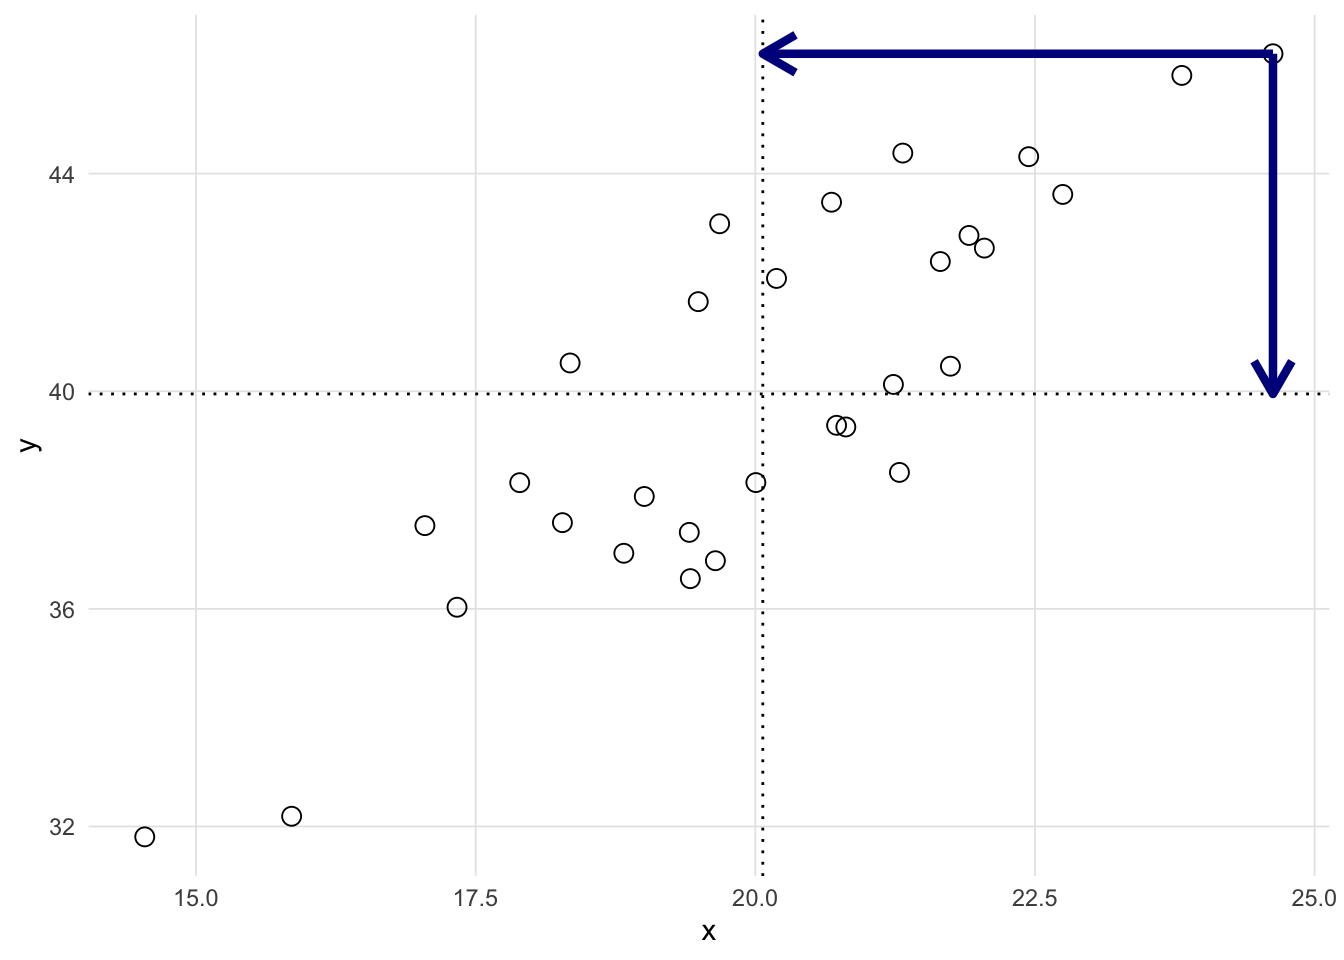
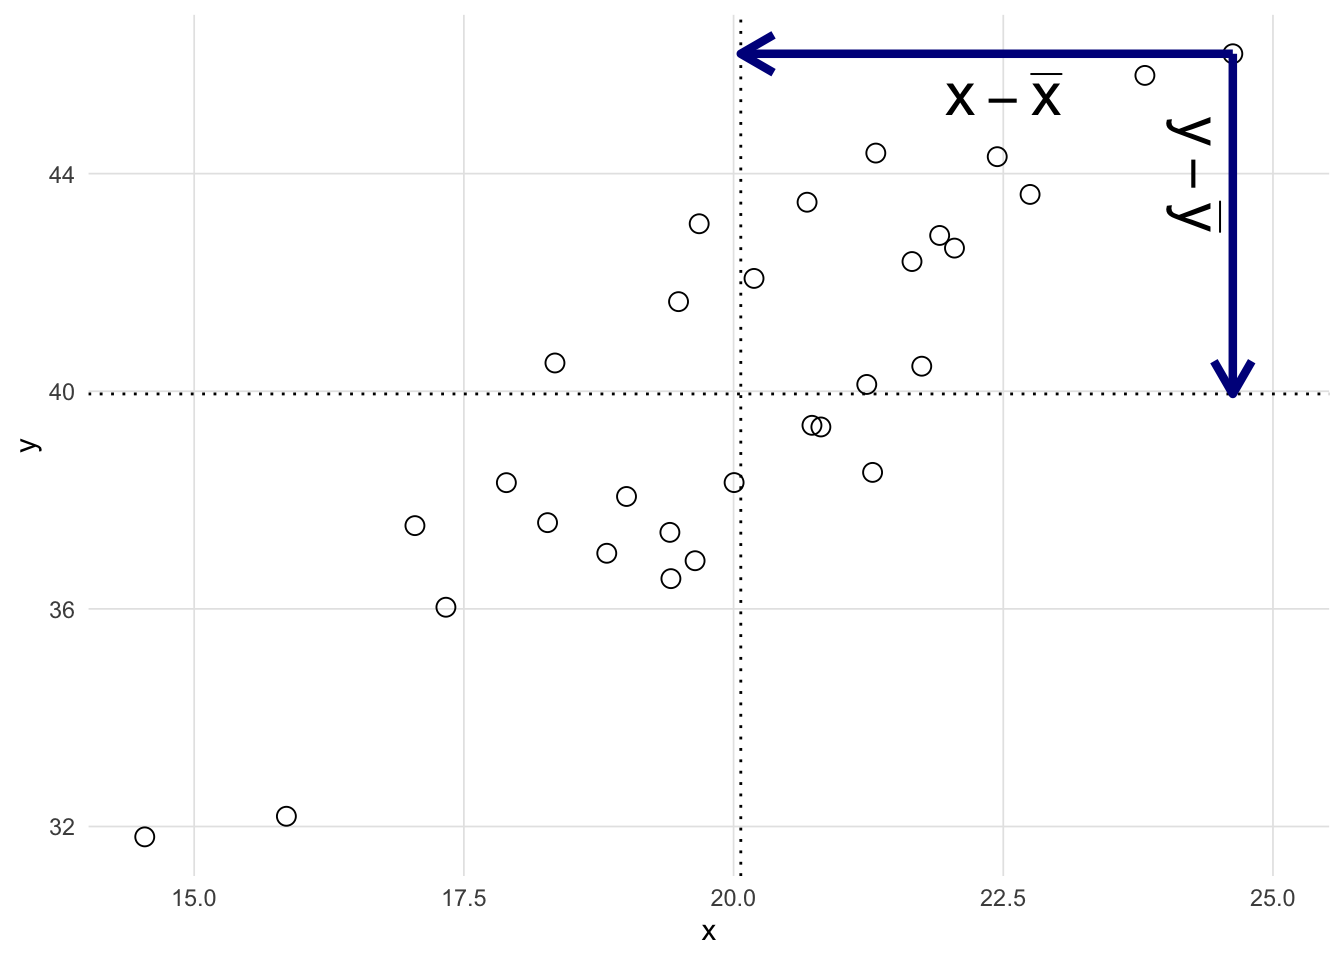
Added annotation to correlation plot.

diff --git a/docs/correlation.html b/docs/correlation.html
@@ -302,7 +302,11 @@ pre > code.sourceCode > span > a:first-child::before { text-decoration: underlin
 <span id="cb3-5"><a href="#cb3-5" aria-hidden="true" tabindex="-1"></a>                <span class="at">plot_positive_cross_products =</span> <span class="cn">FALSE</span>,</span>
 <span id="cb3-6"><a href="#cb3-6" aria-hidden="true" tabindex="-1"></a>                <span class="at">plot_negative_cross_products =</span> <span class="cn">FALSE</span>,</span>
 <span id="cb3-7"><a href="#cb3-7" aria-hidden="true" tabindex="-1"></a>                <span class="at">plot_x_deviations =</span> deviation_to_plot,</span>
-<span id="cb3-8"><a href="#cb3-8" aria-hidden="true" tabindex="-1"></a>                <span class="at">plot_y_deviations =</span> deviation_to_plot)</span></code><button title="Copy to Clipboard" class="code-copy-button"><i class="bi"></i></button></pre></div>
+<span id="cb3-8"><a href="#cb3-8" aria-hidden="true" tabindex="-1"></a>                <span class="at">plot_y_deviations =</span> deviation_to_plot) <span class="sc">+</span></span>
+<span id="cb3-9"><a href="#cb3-9" aria-hidden="true" tabindex="-1"></a>    <span class="fu">annotate</span>(<span class="st">'text'</span>, <span class="at">x =</span> <span class="fl">22.5</span>, <span class="at">y =</span> <span class="fl">46.2</span>,</span>
+<span id="cb3-10"><a href="#cb3-10" aria-hidden="true" tabindex="-1"></a>             <span class="at">label =</span> <span class="fu">bquote</span>(<span class="st">"x - bar(x)"</span>), <span class="at">parse =</span> <span class="cn">TRUE</span>, <span class="at">vjust =</span> <span class="fl">1.5</span>, <span class="at">size =</span> <span class="dv">8</span>) <span class="sc">+</span></span>
+<span id="cb3-11"><a href="#cb3-11" aria-hidden="true" tabindex="-1"></a>    <span class="fu">annotate</span>(<span class="st">'text'</span>, <span class="at">x =</span> <span class="fl">25.0</span>, <span class="at">y =</span> <span class="dv">44</span>,</span>
+<span id="cb3-12"><a href="#cb3-12" aria-hidden="true" tabindex="-1"></a>             <span class="at">label =</span> <span class="fu">bquote</span>(<span class="st">"y - bar(y)"</span>), <span class="at">parse =</span> <span class="cn">TRUE</span>, <span class="at">vjust =</span> <span class="dv">2</span>, <span class="at">size =</span> <span class="dv">8</span>, <span class="at">angle =</span> <span class="sc">-</span><span class="dv">90</span>)</span></code><button title="Copy to Clipboard" class="code-copy-button"><i class="bi"></i></button></pre></div>
 </details>
 <div class="cell-output-display">
 <div id="fig-corr-largest-deviation" class="quarto-figure quarto-figure-center anchored">
